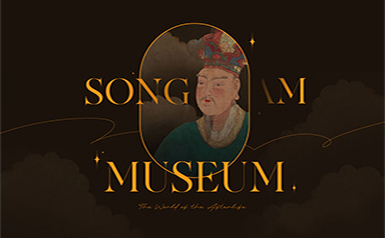
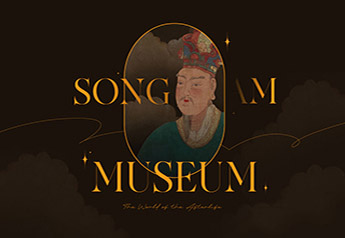
mjva

diff --git a/mobile/style/style.css b/mobile/style/style.css
@@ -216,6 +216,7 @@ header a{
 .dep1:hover .dep2{
     display: block;
 }
+
 /* dep2 */
 .dep2{
     display: none;
@@ -288,7 +289,7 @@ main{
     position: relative;
 }
 #slides {
-	width: 385px;
+	width: 345px;
 	height: 238px;
 	position: relative;
 	overflow: hidden;
@@ -302,13 +303,13 @@ main{
 	width: 100%;
 	height: 100%;
 	left: 0;
-	background: url(../imgs/main_banner.jpg) 0 0 no-repeat;
+	background: url(../imgs/main_banner.jpg) center no-repeat;
 }
 .slide2{
 	width: 100%;
 	height: 100%;
 	left: 100%;
-	background: url(../imgs/main_banner2.jpg) 0 0 no-repeat;
+	background: url(../imgs/main_banner2.jpg) center no-repeat;
 }
 /* banner bar */
 .banner .bar {
@@ -787,7 +788,7 @@ main{
     height: 400px;
 }
 .popupzone{
-    width: 385px;
+    width: 345px;;
     height: 210px;
     margin-bottom: var(--row);
     padding: 2rem;

diff --git a/mobile/js/script.js b/mobile/js/script.js
@@ -73,7 +73,7 @@ $(() => {
 	  }
   });
 
-// nav
+// ham nav
 $(()=>{
 	// 햄버거메뉴 클릭시 메뉴 등장
 	$('.fa-bars').on('click',function () {
@@ -84,6 +84,7 @@ $(()=>{
 	$('.fa-xmark').on('click',function () {
 		$('.ham_menu').removeClass('move');
 	});
+
 });
 
 //popupzone slide
